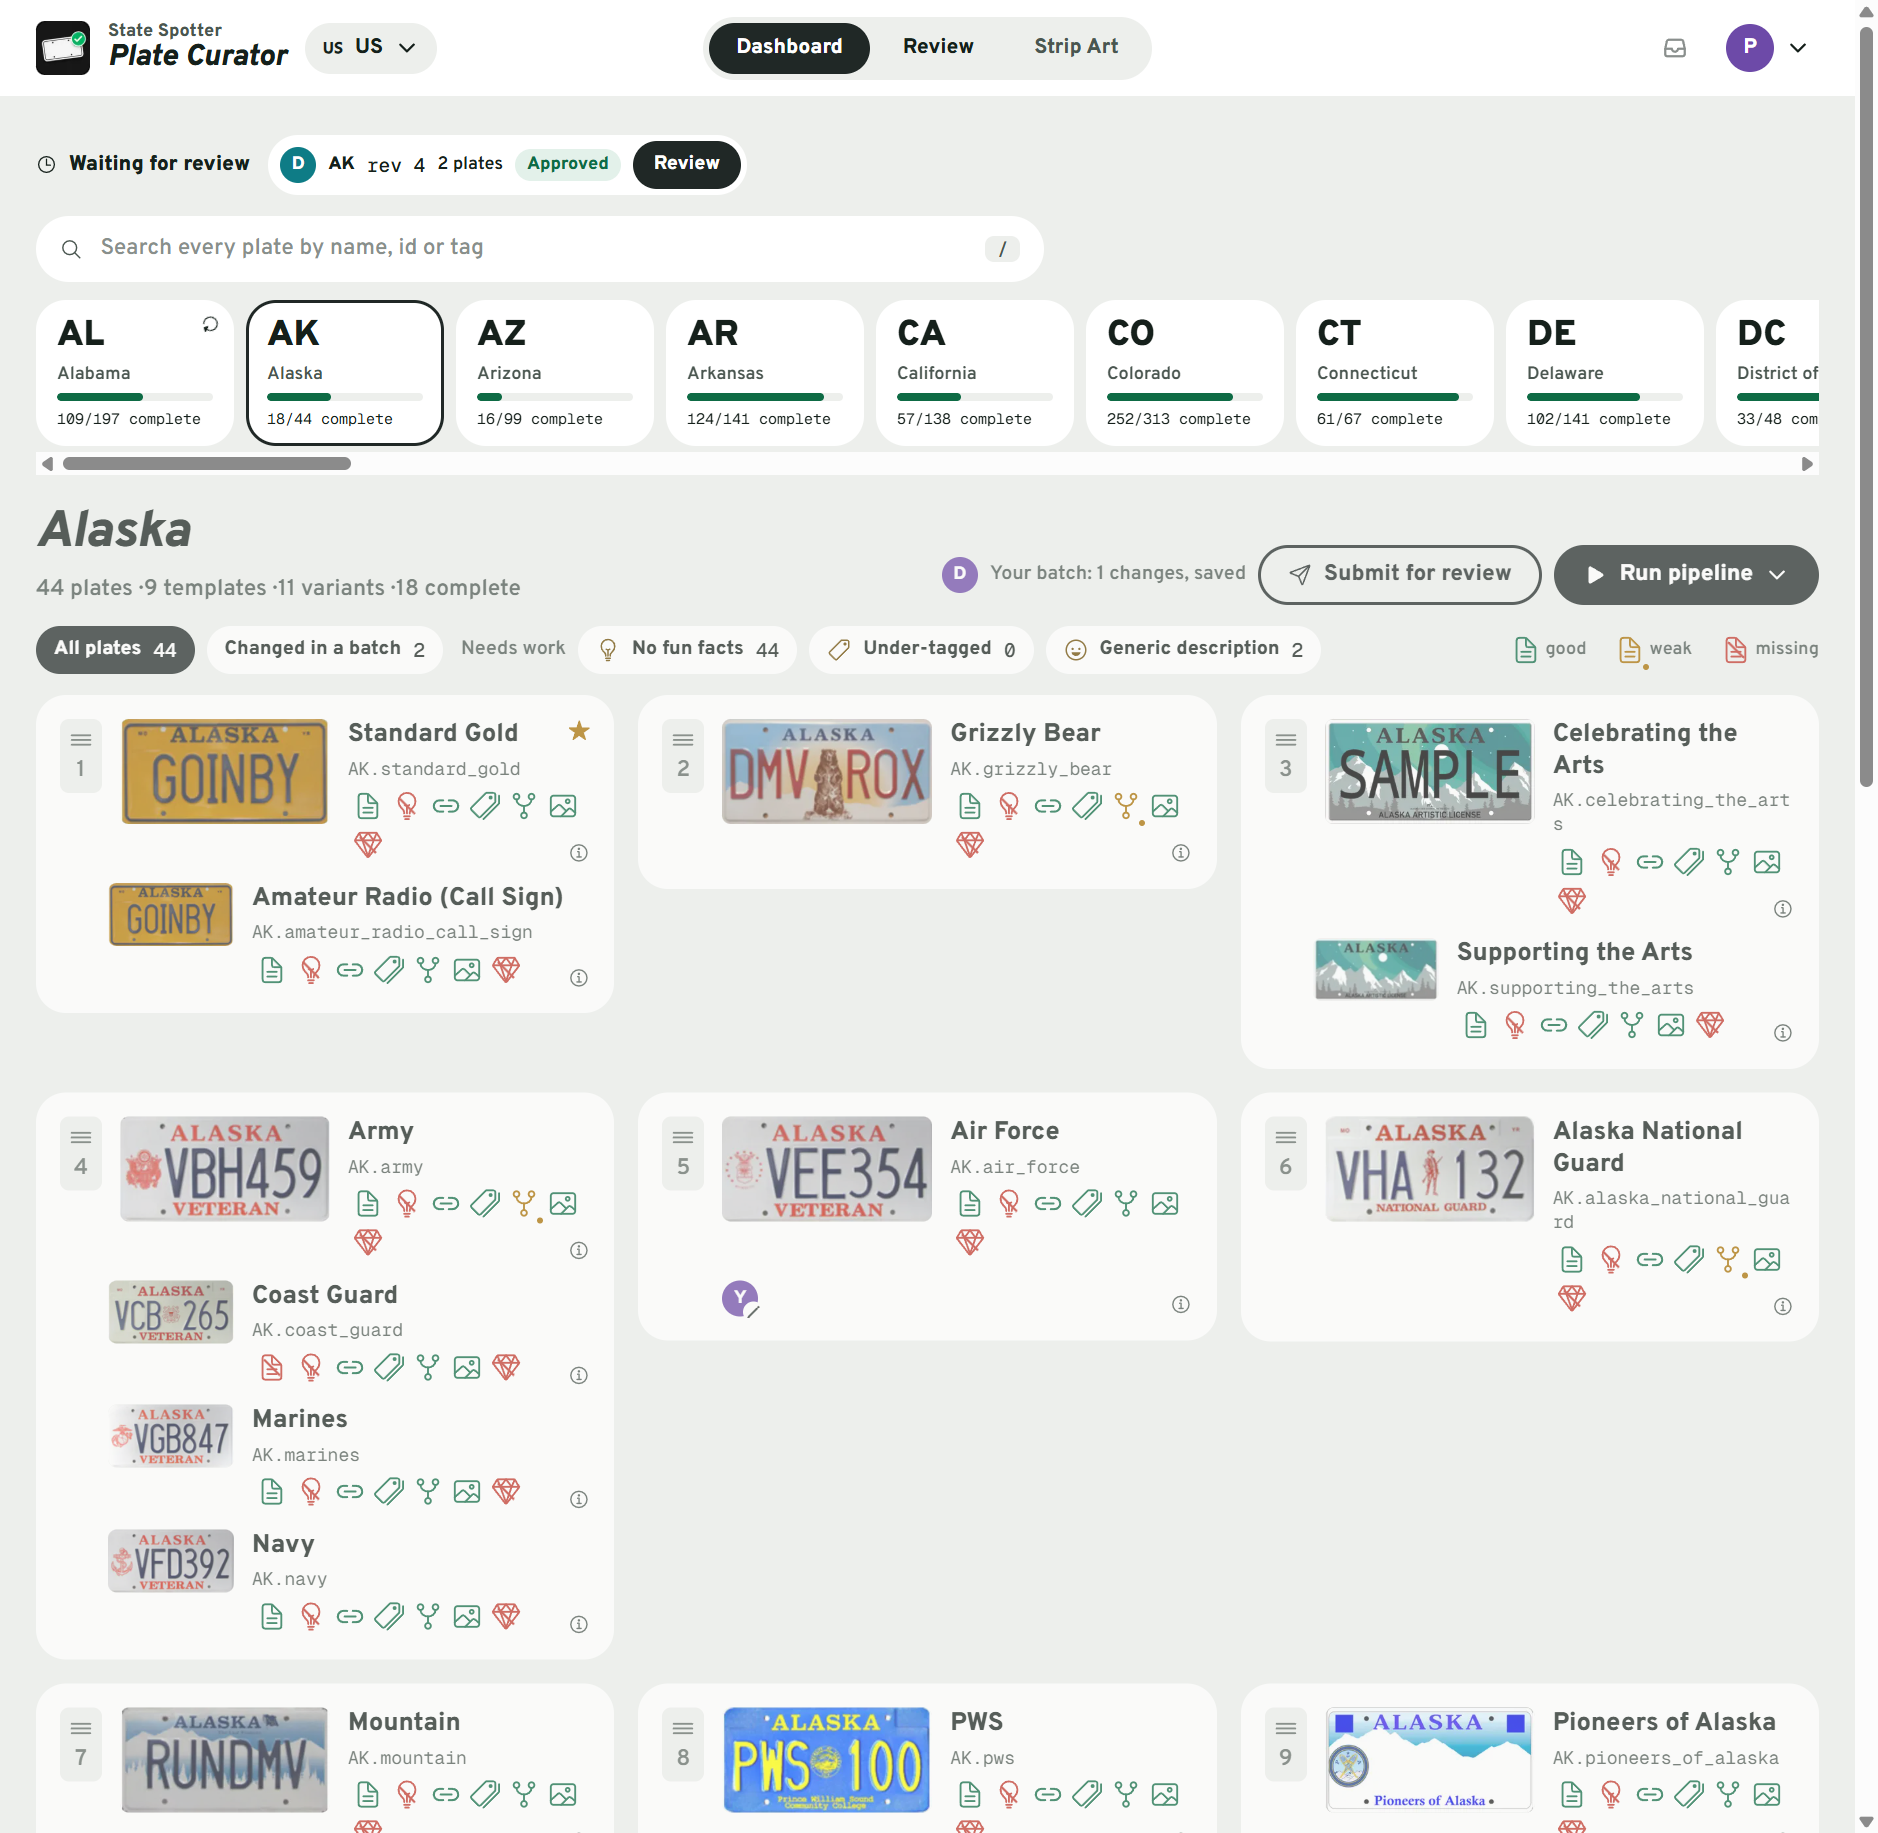
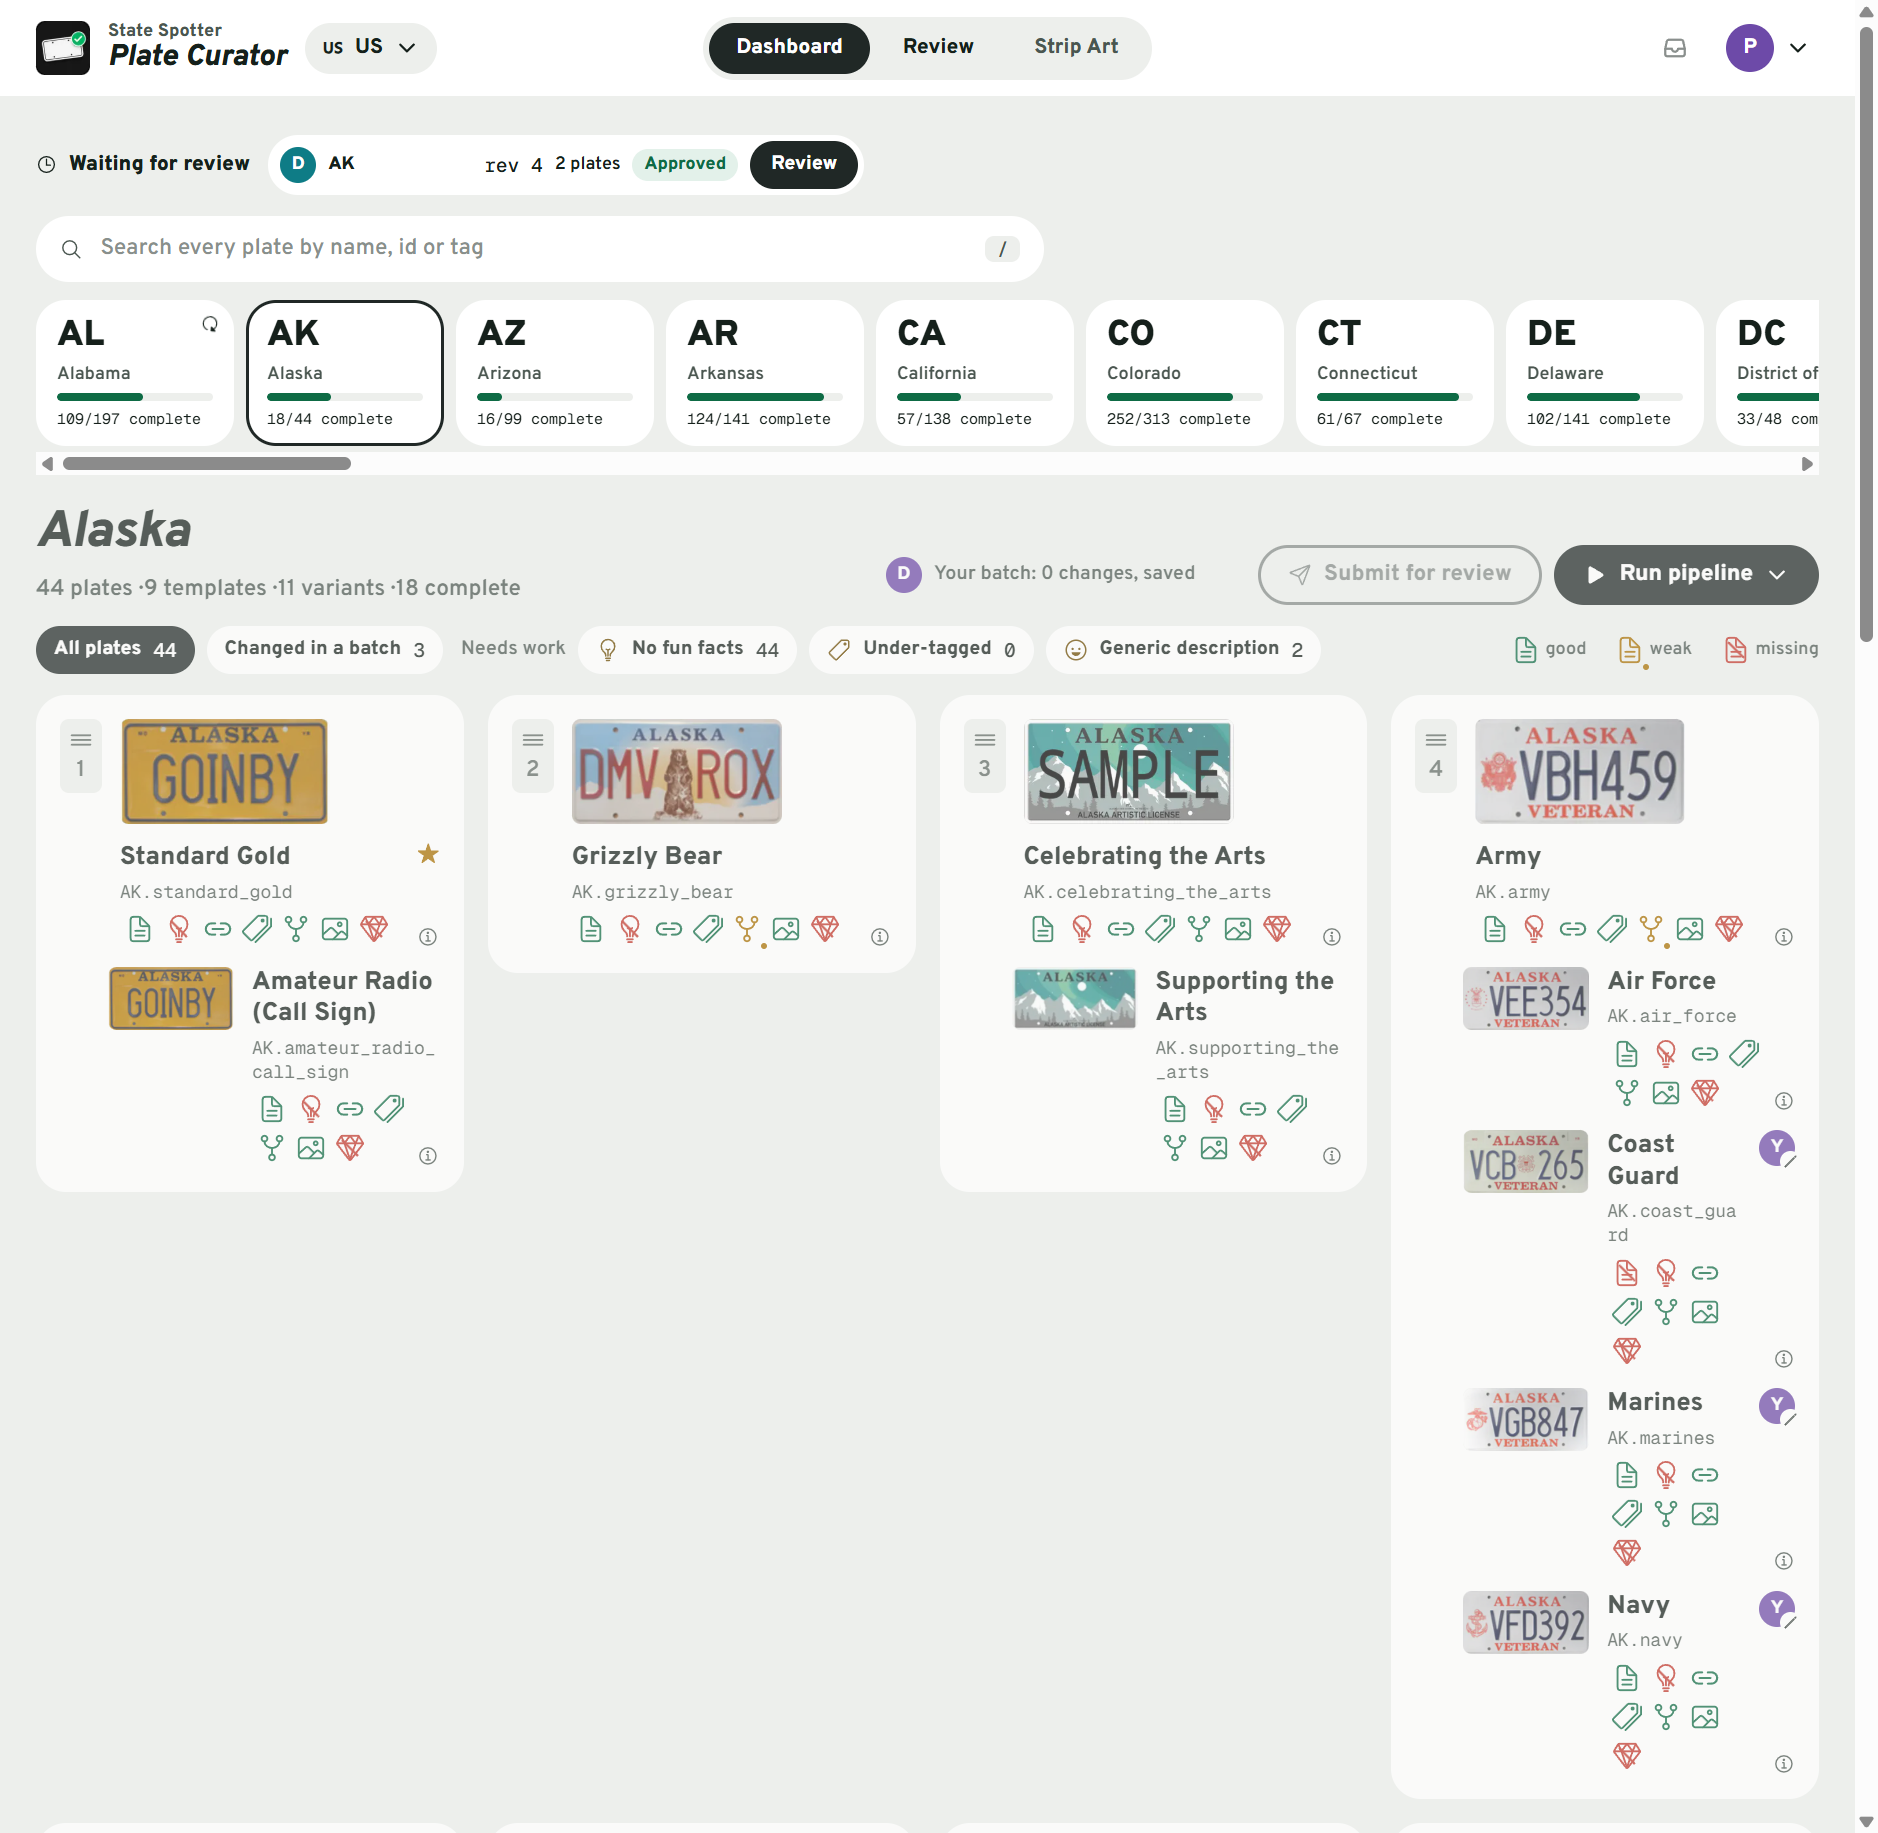
fix(ui): address navigation accessibility and loading review

diff --git a/components/dashboard/jurisdiction-card.tsx b/components/dashboard/jurisdiction-card.tsx
@@ -9,18 +9,15 @@ import { cn } from '@/components/utils'
 
 function PendingIndicator() {
   const { pending } = useLinkStatus()
+  if (!pending) return null
   return (
     <span
       role="status"
-      data-navigation-pending={pending || undefined}
-      className={cn('absolute right-2 top-2 size-3 transition-opacity', pending ? 'opacity-100' : 'opacity-0')}
+      data-navigation-pending
+      className="absolute right-2 top-2 size-3"
     >
-      {pending ? (
-        <>
-          <IoReloadOutline className="size-3 motion-safe:animate-spin" aria-hidden="true" />
-          <span className="sr-only">Loading jurisdiction…</span>
-        </>
-      ) : null}
+      <IoReloadOutline className="size-3 motion-safe:animate-spin" aria-hidden="true" />
+      <span className="sr-only">Loading jurisdiction…</span>
     </span>
   )
 }

diff --git a/app/(curator)/states/layout.tsx b/app/(curator)/states/layout.tsx
@@ -7,7 +7,7 @@ import { DashboardSkeleton } from '@/components/dashboard/skeleton'
 export default function StatesLayout({ children }: { children: React.ReactNode }) {
   return (
     <main className="app-main dashboard group/states">
-      <Suspense fallback={<div className="review-loading" role="status">Loading review batches…</div>}>
+      <Suspense fallback={<div className="review-loading flex h-11 items-center" role="status">Loading review batches…</div>}>
         <ReviewStrip />
       </Suspense>
       <Suspense fallback={<div className="dashboard-search" role="status">Loading search…</div>}>

diff --git a/tests/navigation.test.tsx b/tests/navigation.test.tsx
@@ -33,6 +33,7 @@ test('the pending link exposes its loading indicator', () => {
   const idle = renderToStaticMarkup(<JurisdictionCard jurisdiction={jurisdiction} />)
   expect(idle).not.toContain('data-navigation-pending')
   expect(idle).not.toContain('animate-spin')
+  expect(idle).not.toContain('role="status"')
   route.pending = true
   const html = renderToStaticMarkup(<JurisdictionCard jurisdiction={jurisdiction} />)
   expect(html).toContain('data-navigation-pending')

diff --git a/components/dashboard/review-strip.tsx b/components/dashboard/review-strip.tsx
@@ -55,7 +55,7 @@ export function ReviewStrip() {
     return <p role="alert">Could not load batches waiting for review.</p>
   if (isLoading)
     return (
-      <div className="review-loading" role="status">
+      <div className="review-loading flex h-11 items-center" role="status">
         Loading review batches…
       </div>
     )

diff --git a/app/(curator)/states/[code]/page.tsx b/app/(curator)/states/[code]/page.tsx
@@ -1,4 +1,4 @@
-import { StateContent } from '@/components/dashboard/dashboard-data'
+import { StateContent } from '@/components/dashboard/dashboard-data'
 
 export default async function Dashboard({
   params,
